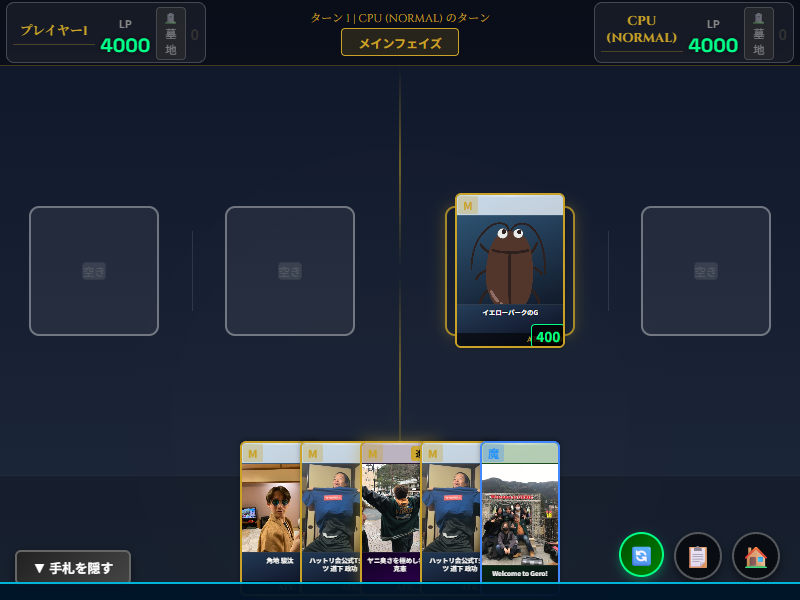
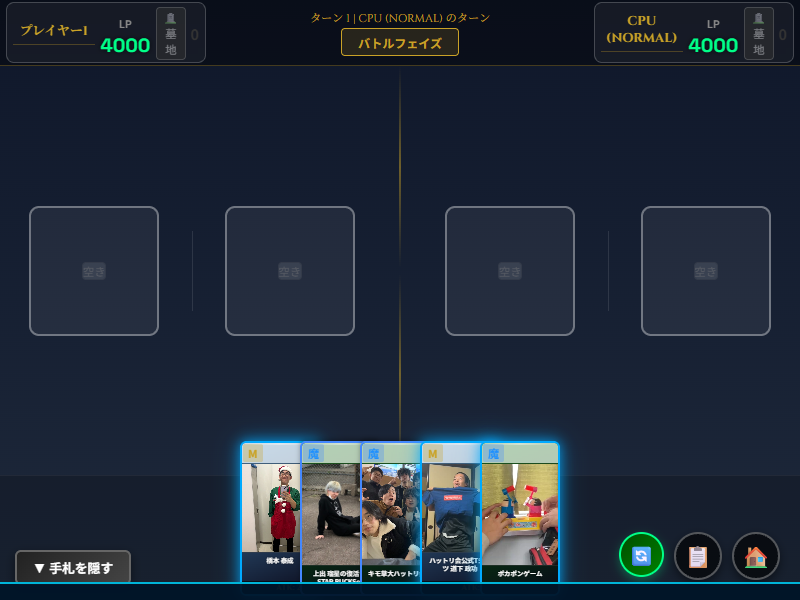
magic card visual

Changed region(s): [[0.2812, 0.69, 0.7188, 0.99], [0.5312, 0.3, 0.7188, 0.6], [0.4375, 0.06, 0.5312, 0.09]]

diff --git a/cpu.js b/cpu.js
@@ -18,7 +18,7 @@ async function processCPUTurn(gs) {
             renderPhase(gs.phase);
         } else if (gs.phase === PHASE.MAIN) {
             const action = chooseMainPhaseAction(gs);
-            if (action) {
+            if (action && action.type !== 'END_PHASE') {
                 await evaluateAndExecuteAction(gs, action);
             } else {
                 // アクションがない場合はバトルフェイズへ
@@ -27,10 +27,10 @@ async function processCPUTurn(gs) {
             }
         } else if (gs.phase === PHASE.BATTLE) {
             const action = chooseBattlePhaseAction(gs);
-            if (action) {
+            if (action && action.type !== 'END_PHASE') {
                 await evaluateAndExecuteAction(gs, action);
             } else {
-                // アクションがない場合はエンドターンへ
+                // アクションがない、またはフェイズ終了の場合はエンドターンへ
                 await endTurn(true);
                 break; // ターン終了なのでループを抜ける
             }

diff --git a/game.js b/game.js
@@ -601,6 +601,11 @@ async function useMonsterCard(card, player, slotIdx) {
 async function useMagicCard(card, player, slotIdx) {
     player.fieldMagic[slotIdx] = card;
     gs.log(`【発動】${player.name} が「${card.name}」を使用しました！`);
+
+    // 発動した魔法カードを盤面に表示して一時待機（視覚化）
+    renderAll();
+    await new Promise(resolve => setTimeout(resolve, 800));
+
     // 非同期onPlay対応
     const result = card.onPlay ? await card.onPlay(gs, player) : null;
 
